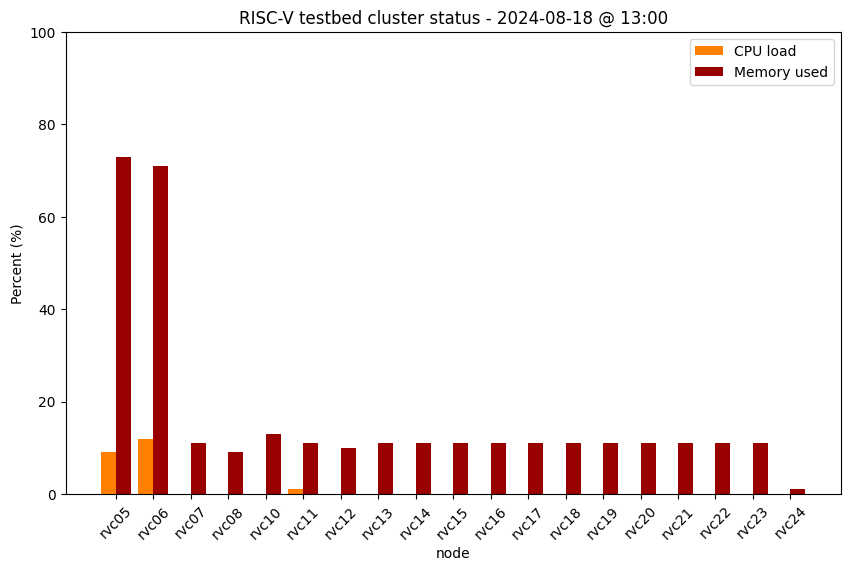
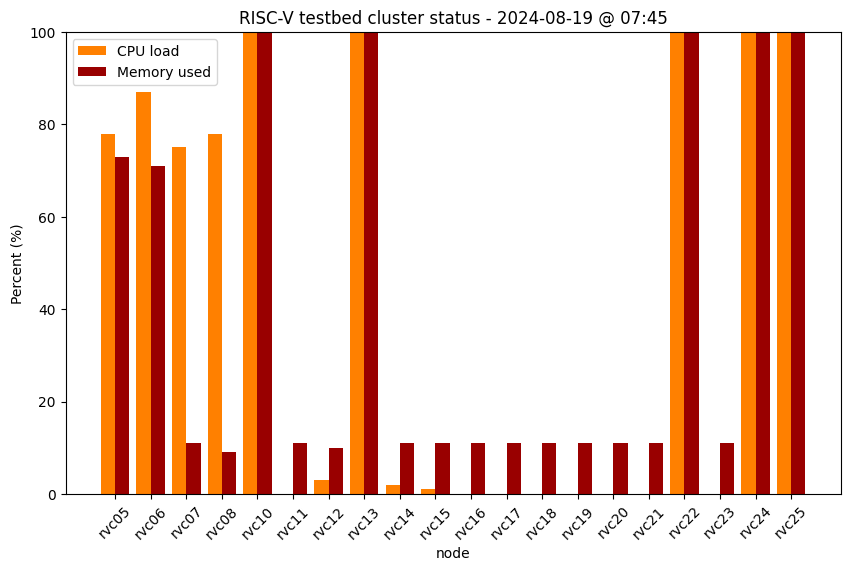
Update cluster status

Changed region(s): [[0.0918, 0.0, 0.9788, 0.9527]]

diff --git a/status.md b/status.md
@@ -37,5 +37,5 @@ permalink: /status/
 | StarFive VisionFive V2 #12 | rvc22 | 4 | 8GB | <img src="/images/on.png" alt="green light" width="10"/> up |
 | StarFive VisionFive V2 #13 | rvc23 | 4 | 8GB | <img src="/images/on.png" alt="green light" width="10"/> up |
 | Milk-V Pioneer #1 | rvc24 | 64 | 128GB | <img src="/images/on.png" alt="green light" width="10"/> up |
-| Milk-V Pioneer #2 | rvc25 | 64 | 128GB | <img src="/images/off.png" alt="red light" width="10"/> down |
+| Milk-V Pioneer #2 | rvc25 | 64 | 128GB | <img src="/images/on.png" alt="green light" width="10"/> up |
 
